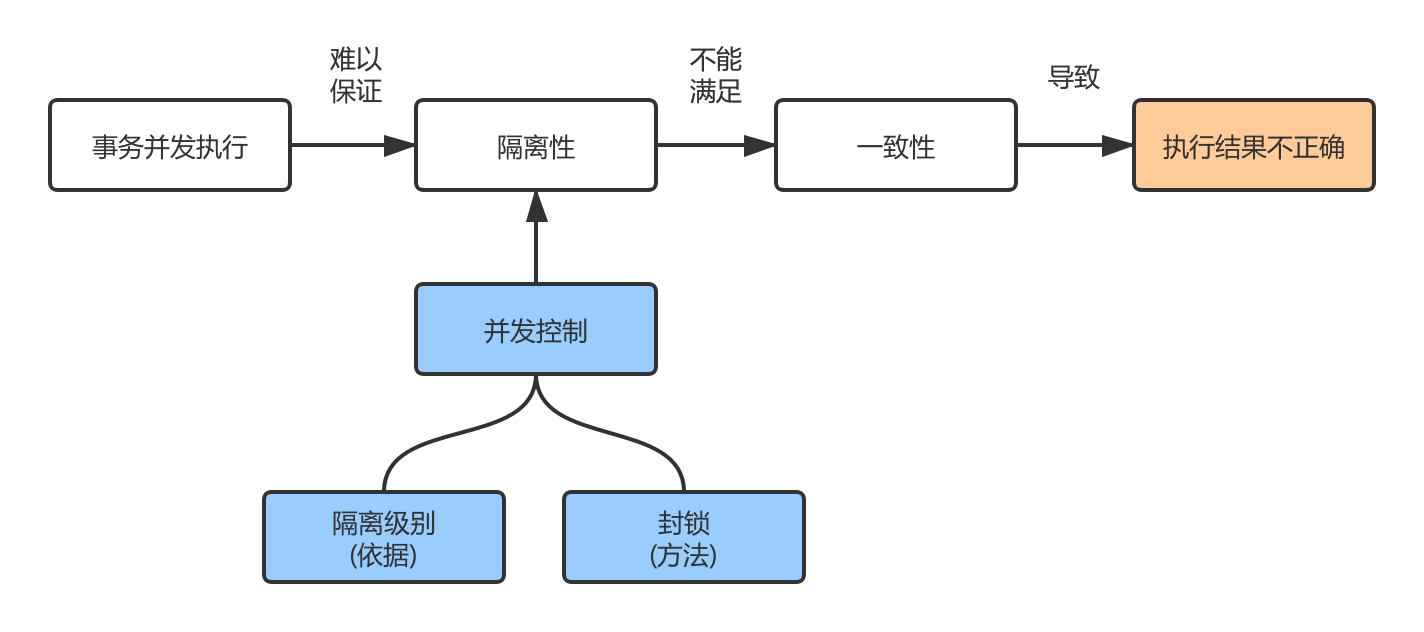
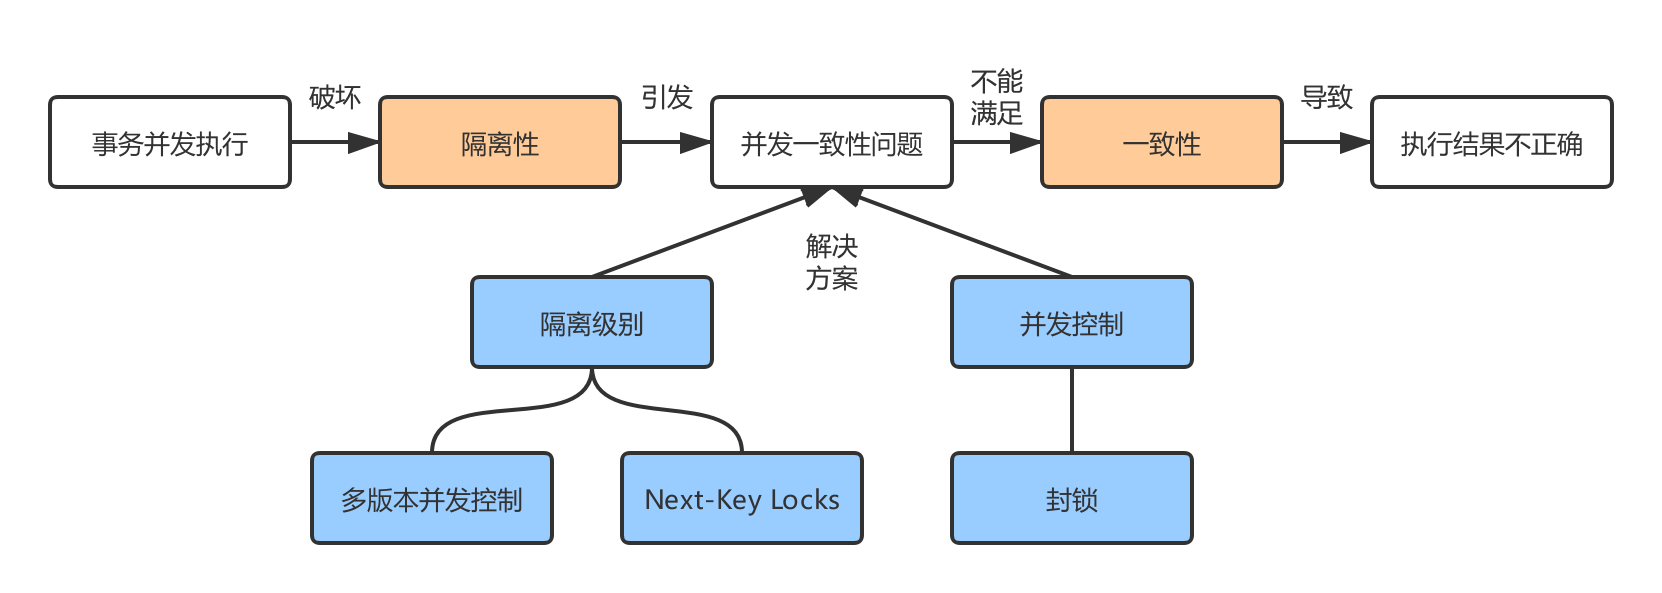
CyC2018-CSNotes-Database-2019.09.26-1

Changed region(s): [[0.1854, 0.3642, 0.7416, 0.941], [0.0309, 0.0607, 0.9888, 0.3642], [0.4326, 0.3642, 0.4635, 0.3946]]

diff --git a/doc/CyC2018-CS-Notes-Database.md b/doc/CyC2018-CS-Notes-Database.md
@@ -36,17 +36,17 @@
 #### 读脏数据
 `读脏数据`：$T_1$ 对一个数据做了修改，$T_2$ 读取这一个数据。若 $T_1$ 执行 ROLLBACK 操作，则 $T_2$ 读取的结果和第一次的结果不一样。如图 1-3 所示。
 
-> 简记为 `读取失败的修改`。
+> 简记为 `读取失败的修改`。最简单的场景是修改完成后，紧接着查询检验结果。
 
 #### 不可重复读
 `不可重复读`：$T_2$ 读取一个数据，$T_1$ 对该数据做了修改。如果 $T_2$ 再次读取这个数据，此时读取的结果和第一次读取的结果不同。如图 1-4 所示。
 
-> 简记为 `修改时读`。
+> 简记为 `读时修改`，重复读取的结果不一样。
 
 #### 幻影读
 `幻影读`：$T_1$ 读取某个范围的数据，$T_2$ 在这个范围内插入新的数据，$T_1$ 再次读取这个范围的数据，此时读取的结果和和第一次读取的结果不同。如图 1-5 所示。
 
-> 简记为 `读时修改`。
+> 简记为 `读时插入`，重复读取的结果不一样。
 
 | ![图1-2丢失数据](img/CyC2018-CS-Notes-Database_1-2.png) | ![图1-3读脏数据](img/CyC2018-CS-Notes-Database_1-3.png) |
 | :---: | :---: |
@@ -159,9 +159,9 @@
 	```
 
 ### 隔离级别
-- 概念：事务指定一个隔离级别，该隔离级别定义一个事务必须与其他事务进行的资源或数据更改相隔离的程度。隔离级别是从允许并发副作用发生的角度进行描述的。例如，脏读、不可重复读或幻影读。如表 1-3 所示，是关于隔离级别与并发副作用的层级关系。
+- 概念：事务指定一个隔离级别，该隔离级别定义了一个事务必须与其他事务进行资源或数据更改相隔离的程度。隔离级别是从 `允许并发一致性问题发生` 的角度进行描述的。例如，脏读、不可重复读或幻影读。如表 1-3 所示，是关于隔离级别与并发副作用的层级关系。
 
-	| 隔离级别 | 脏读 | 不可重复读 | 幻影读 |
+	| 隔离级别 \ 并发一致性问题 | 脏读 | 不可重复读 | 幻影读 |
 	| :----: | :----: | :----: | :----: |
 	| 未提交读 |  ✔  |  ✔  |  ✔  |
 	| 提交读   |  ✖  |  ✔  |  ✔  |
@@ -178,8 +178,12 @@
 #### 提交读
 - 提交读 (Read committed)：一个事务只能读取已经提交的修改事务。换句话说，一个事务所做的修改在提交之前对其它事务是不可见的。
 
+	> Oracle 数据库默认的事务隔离级别。
+
 #### 可重复读
-- 可重复读 (Repeatable Read)：保证在同一个事务中多次读取同样数据的结果是一样的。
+- 可重复读 (Repeatable Read)：保证了一个事务不会修改已经由另一个事务读取但未提交 (或回滚) 的数据。
+
+	> MySQL 数据库默认的事务隔离级别。
 
 #### 可串行化
 - 可串行化 (Serialzable)：强制事务串行执行。需要加锁实现，而其它隔离级别通常不需要加锁。
@@ -252,6 +256,9 @@
 ### Next-Key Locks
 - Next-Key Locks 是 MySQL 的 InnoDB 存储引擎的一种锁实现。
 - MVCC 不能解决 `幻影读` 问题，Next-Key Locks 就是为了解决这个问题而存在的。
+
+	> 场景复现：可重复读保证了一个事务不会修改已经由另一个事务读取但未提交 (或回滚) 的数据，例如统计某班男生的人数。但此时插入一名男生，而同样的查询操作会导致不一致的查询结果。
+
 - 在可重复读 (REPEATABLE READ) 隔离级别下，使用 `MVCC + Next-Key Locks` 可以解决幻读问题。
 
 #### Record Locks
